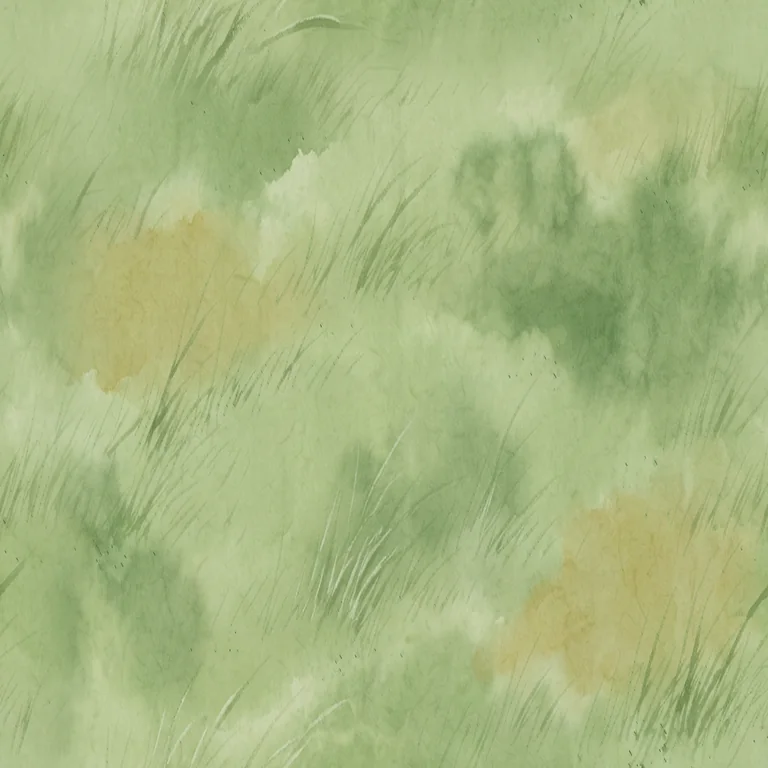
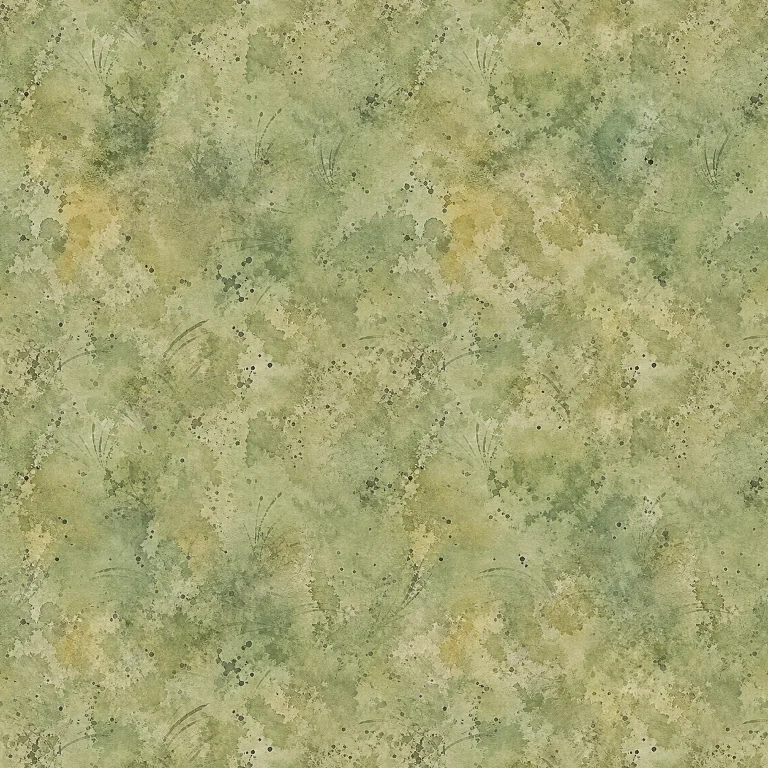
第四十二步：黄枫谷水墨地图样板

diff --git a/fanren/tools/test-landmarks.ts b/fanren/tools/test-landmarks.ts
@@ -16,7 +16,7 @@ const guard = (name: string, f: () => void) => { try { f(); } catch (e: any) { e
 const cv: any = createCanvas(400, 300); const ctx = cv.getContext('2d');
 const view = () => ({ left: g.player.x - 1500, top: g.player.y - 1000, right: g.player.x + 1500, bottom: g.player.y + 1000 });
 const clearFoes = () => { for (const e of g.combat.enemies) { e.dead = true; e.hp = 0; } g.combat.enemies = []; };
-console.log('map', ACTIVE_MAP, 'landmarks', LANDMARKS.map((l: any) => l.id).join(','), 'scenic peaks', SCENIC.peaks.length, 'falls', SCENIC.falls.length, 'groves', SCENIC.groves.length);
+console.log('map', ACTIVE_MAP, 'landmarks', LANDMARKS.map((l: any) => l.id).join(','), 'scenic peaks', SCENIC.peaks.length, 'falls', SCENIC.falls.length, 'groves', SCENIC.groves.length, 'props', SCENIC.props.length);
 ok(LANDMARKS.length >= 1, '本图有原著名地');
 g.hero.realm = 2; g.hero.stage = 2;
 
@@ -39,6 +39,16 @@ guard('decos', () => {
   for (const f of allF.slice(0, 3)) { const cx = Math.floor(f.x / CHUNK), cy = Math.floor(f.y / CHUNK); ok(terrain.getDecos(cx, cy).some((d: any) => d.kind === 'fall' && d.id === f.id), '瀑布进入装饰列表', f.id); }
   for (const gv of SCENIC.groves.slice(0, 3)) { const cx = Math.floor(gv.x / CHUNK), cy = Math.floor(gv.y / CHUNK); for (const d of terrain.getDecos(cx, cy)) if (d.kind === 'tree' && (d.sp === 'peach' || d.sp === 'apricot' || d.sp === 'plum')) blossom++; }
   ok(blossom > 10 || !SCENIC.groves.length, '花林里有桃杏', String(blossom));
+  for (const p of SCENIC.props) {
+    const cx = Math.floor(p.x / CHUNK), cy = Math.floor(p.y / CHUNK);
+    const hits = terrain.getDecos(cx, cy).filter((d: any) => d.kind === 'asset' && d.id === p.id && d.key === p.key);
+    ok(hits.length === 1, `原创名胜只生成一次：${p.name ?? p.id}`, `chunk=${cx},${cy} count=${hits.length}`);
+    let blockers = 0;
+    for (let yy = Math.floor((p.y - p.h * 0.85) / CHUNK); yy <= Math.floor((p.y + 150) / CHUNK); yy++) for (let xx = Math.floor((p.x - p.w * 0.55) / CHUNK); xx <= Math.floor((p.x + p.w * 0.55) / CHUNK); xx++) {
+      for (const d of terrain.getDecos(xx, yy)) if (d.kind === 'tree' && Math.abs(d.x - p.x) < p.w * 0.55 && d.y > p.y - p.h * 0.85 && d.y < p.y + 150) blockers++;
+    }
+    ok(blockers === 0, `观景亭贴图区域留白：${p.name ?? p.id}`, `trees=${blockers}`);
+  }
   let pg = 0; for (let y = 0; y < H; y += 2600) for (let x = 0; x < W; x += 2600) pg += terrain.grovesNear(x, y, 0).length > 0 ? 1 : 0;
   console.log('     procedural grove cells ~', pg);
 });

diff --git a/fanren/src/data/landmarks.ts b/fanren/src/data/landmarks.ts
@@ -173,9 +173,10 @@ export const LANDMARKS: Landmark[] = build();
 export interface NamedPeak extends LmPeak { name: string }
 export interface FallSpot { id: string; x: number; y: number; w: number; h: number; seed: number; tiers: number; name?: string }
 export interface GroveSpot { x: number; y: number; r: number; sp: Species; seed: number; name?: string }
+export interface ScenicPropSpot { id: string; key: string; x: number; y: number; w: number; h: number; flip?: boolean; name?: string }
 
 function buildScenic() {
-  const peaks: NamedPeak[] = [], falls: FallSpot[] = [], groves: GroveSpot[] = [];
+  const peaks: NamedPeak[] = [], falls: FallSpot[] = [], groves: GroveSpot[] = [], props: ScenicPropSpot[] = [];
   const at = (loc: string) => { const l = locHere(loc); return l ? [l.x * WORLD_SCALE, l.y * WORLD_SCALE] as const : null; };
   const pk = (loc: string, name: string, dx: number, dy: number, w: number, h: number, style: MtnStyle, extra: Partial<NamedPeak> = {}) => {
     const c = at(loc); if (!c) return;
@@ -206,6 +207,9 @@ function buildScenic() {
     fall('qixuan', 1300, -2650, 460, 420, 1);
     fall('taiyue', -1500, -700, 640, 760, 3);
     fall('huangfeng', -2300, -2600, 480, 520, 2);
+    // 黄枫谷瀑布旁的原创观景点：只补一座手绘亭台，山、树、水帘仍由原有程序绘制。
+    const hf = at('huangfeng');
+    if (hf) props.push({ id: 'sp_huangfeng_tingpu', key: 'p_map42_hf_pavilion', x: hf[0] - 1550 + 700, y: hf[1] + 950 + 220, w: 580, h: 623, name: '黄枫谷·听瀑亭' });
     // 花林
     grove('luoyun', 1700, 1250, 620, 'peach', '灵药园桃林');
     grove('qixuan', -900, 1200, 520, 'peach');
@@ -227,7 +231,7 @@ function buildScenic() {
     grove('yunzhou', 1300, 1100, 520, 'peach');
     grove('youzhou', -1200, 1000, 480, 'plum', '幽州梅林');
   }
-  return { peaks, falls, groves };
+  return { peaks, falls, groves, props };
 }
 export const SCENIC = buildScenic();
 
@@ -254,6 +258,7 @@ export function lmCleared(x: number, y: number, pad = 0): boolean {
   }
   for (const p of SCENIC.peaks) if (Math.abs(x - p.x) < p.w * 0.55 + pad && y < p.y + 250 && y > p.y - p.h * 0.5 - pad) return true;
   for (const f of SCENIC.falls) if (Math.abs(x - f.x) < f.w * 0.75 + pad && y < f.y + f.w * 0.6 && y > f.y - f.h * 0.6 - pad) return true;
+  for (const p of SCENIC.props) if (Math.abs(x - p.x) < p.w * 0.55 + pad && y < p.y + 150 + pad && y > p.y - p.h * 0.85 - pad) return true;
   return false;
 }
 export function groveAt(x: number, y: number, pad = 0): GroveSpot | null {

diff --git a/fanren/src/world/terrain.ts b/fanren/src/world/terrain.ts
@@ -22,7 +22,8 @@ export interface TreeDeco { kind: 'tree'; sp: Species; v: number; x: number; y: 
 export interface MtnDeco { kind: 'mtn'; id: string; spec: MtnSpec; x: number; y: number; w: number; h: number; flip: boolean }
 /** 第十九步：瀑布（崖壁精灵 + 逐帧水练） */
 export interface FallDeco { kind: 'fall'; id: string; x: number; y: number; w: number; h: number; seed: number; tiers: number; name?: string }
-export type Deco = ImgDeco | TreeDeco | MtnDeco | FallDeco;
+export interface AssetDeco { kind: 'asset'; id: string; key: string; x: number; y: number; w: number; h: number; flip?: boolean; name?: string }
+export type Deco = ImgDeco | TreeDeco | MtnDeco | FallDeco | AssetDeco;
 const GROVE_MIX: Species[] = ['peach', 'peach', 'peach', 'peach', 'peach', 'peach', 'peach', 'peach', 'peach', 'apricot', 'apricot', 'apricot', 'apricot', 'apricot', 'apricot', 'plum', 'plum', 'plum', 'maple', 'maple'];
 const GVC = 2600, FC = 3000;
 /** 草丛（实时绘制，见 gfx/grass.ts） */
@@ -1113,6 +1114,8 @@ export class Terrain {
         out.push({ kind: 'tree', sp, v: Math.floor(hash2(xx, yy, 307) * TREE_VARIANTS), x, y, w: base * 1.2, h: base * 1.35, s: sc, flip: rnd() < 0.5, ph: rnd() * Math.PI * 2, lod: (xx + yy) % 3 });
       }
     }
+    // ---------- 1e. 原创名胜小景（只在对应世界坐标生成一次）----------
+    for (const p of SCENIC.props) if (inChunk(p.x, p.y)) out.push({ kind: 'asset', ...p });
     // ---------- 2. 树林（成片的林子，大小不一）----------
     const GC = 640;
     for (let gy = Math.floor((oy - 700) / GC); gy <= Math.floor((oy + CHUNK + 700) / GC); gy++) for (let gx = Math.floor((ox - 700) / GC); gx <= Math.floor((ox + CHUNK + 700) / GC); gx++) {

diff --git a/fanren/src/gfx/bldTex2.ts b/fanren/src/gfx/bldTex2.ts
@@ -3,7 +3,8 @@
 // Node 测试环境没有 Image：一切函数返回 null / false，调用方退回程序绘制。
 import { BLD2, BldDim } from './bld2Dims';
 import { PROP2 } from './propDims';
-Object.assign(BLD2, PROP2);   // 第二十三步：摆件 / 遗迹 / 名地构件与建筑共用一套加载与绘制
+import { MAP_ART_DIMS } from './mapArtDims';
+Object.assign(BLD2, PROP2, MAP_ART_DIMS);   // 摆件、遗迹与地图名胜共用按需加载器
 
 type G = CanvasRenderingContext2D;
 interface Ent { im: HTMLImageElement | null; mips: (HTMLCanvasElement | HTMLImageElement)[]; w: number; h: number; last: number; ok: boolean; bad?: boolean }
@@ -17,7 +18,7 @@ let clock = 0;
 export function loadBld2() {
   if (started || typeof Image === 'undefined' || typeof document === 'undefined') return;
   started = true;
-  Promise.all([import('./bld2Data'), import('./propData')]).then(([m, p]) => { SRC = { ...m.BLD2_SRC, ...p.PROP_SRC }; GSRC = m.BLDG_SRC; }).catch((e) => console.warn('建筑画材不可用', e));
+  Promise.all([import('./bld2Data'), import('./propData'), import('./mapArtData')]).then(([m, p, a]) => { SRC = { ...m.BLD2_SRC, ...p.PROP_SRC, ...a.MAP_ART_SRC }; GSRC = m.BLDG_SRC; }).catch((e) => console.warn('建筑画材不可用', e));
 }
 export const bld2Ready = () => !!SRC;
 export function bldDim(key: string): BldDim | undefined { return BLD2[key.split('|')[0]]; }

diff --git a/fanren/src/gl/groundTex.ts b/fanren/src/gl/groundTex.ts
@@ -2,7 +2,8 @@
 export const GROUND_TEX_SIZE = 768;
 /** 各层平均色（预先算好，着色器用来把图块“去色调”后乘回程序配色，保留季节 / 干湿的大块变化） */
 export const GROUND_AVG: number[][] = [
-  [0.629, 0.723, 0.512], [0.655, 0.720, 0.506], [0.769, 0.680, 0.371], [0.741, 0.685, 0.529],
+  // v0.42：雾山水墨样板草地 A/B 的实测平均色。
+  [0.771, 0.763, 0.556], [0.643, 0.648, 0.453], [0.769, 0.680, 0.371], [0.741, 0.685, 0.529],
   // 第三十步：4、6~11 换成新的水墨图块；12 魔道赤土、13 阴地灰紫、14 海滩碎贝
   [0.664, 0.642, 0.557], [0.695, 0.674, 0.510], [0.962, 0.891, 0.736], [0.701, 0.673, 0.619],
   [0.934, 0.933, 0.930], [0.786, 0.657, 0.405], [0.598, 0.556, 0.501], [0.675, 0.610, 0.514],

diff --git a/fanren/src/world/render.ts b/fanren/src/world/render.ts
@@ -444,6 +444,10 @@ export class Renderer {
           }
         } else if (d.kind === 'fall') {
           if (!(d.x + d.w < left || d.x - d.w > right || d.y - d.h - 100 > bottom || d.y + d.w * 0.4 < top)) { nM++; list.push({ y: d.y, k: 'D·瀑布', draw: () => this.drawFall(d, t) }); }
+        } else if (d.kind === 'asset') {
+          if (!vis || z < 0.3) continue;
+          nD++;
+          list.push({ y: d.y, k: 'D·名胜', draw: () => { drawBld(ctx, d.key, d.x, d.y, t, 1, !!d.flip); } });
         } else {
           if (!vis || z < 0.3) continue;
           nD++;

diff --git a/fanren/src/ui/ModalLayer.tsx b/fanren/src/ui/ModalLayer.tsx
@@ -511,7 +511,7 @@ function ChroniclePanel({ game }: { game: Game }) {
 }
 
 // ---------------------------------------------------------------- 帮助
-export const VERSION = 'v0.41 · 境界压制';
+export const VERSION = 'v0.42 · 水墨名胜';
 function HelpPanel({ game }: { game: Game }) {
   const [tab, setTab] = useState(0);
   const T = ['操作', '修炼', '战斗', '人界', '神识', '机缘'];

diff --git a/fanren/src/world/landmarks.ts b/fanren/src/world/landmarks.ts
@@ -474,6 +474,7 @@ export class LandmarkSys {
       for (const pk of SCENIC.peaks) if (pk.name) lab(pk.x, pk.y + 50, pk.name);
       for (const f of SCENIC.falls) if (f.name) lab(f.x, f.y + f.w * 0.2, f.name);
       for (const gv of SCENIC.groves) if (gv.name) lab(gv.x, gv.y, gv.name);
+      for (const p of SCENIC.props) if (p.name) lab(p.x, p.y - p.h - 32, p.name);
     }
   }
 

diff --git a/fanren/src/gfx/mapArtDims.ts b/fanren/src/gfx/mapArtDims.ts
@@ -1,0 +1,7 @@
+// v0.42：地图名胜小景世界尺寸（独立于 Vite 的 ?inline 画材模块，供 Node 测试安全读取）。
+import type { BldDim } from './bld2Dims';
+
+// 世界尺寸：韩立约 108 像素高；取图像裁切比例 934:1003。
+export const MAP_ART_DIMS: Record<string, BldDim> = {
+  p_map42_hf_pavilion: { w: 580, h: 623 },
+};

diff --git a/fanren/src/gfx/mapArtData.ts b/fanren/src/gfx/mapArtData.ts
@@ -1,0 +1,6 @@
+// v0.42：地图名胜小景（与城池、宗门建筑分离；通过 bldTex2 的按需加载器绘制）。
+import pavilion from '../assets/prop/hf_view_pavilion.webp?inline';
+
+export const MAP_ART_SRC: Record<string, string> = {
+  p_map42_hf_pavilion: pavilion,
+};

diff --git a/fanren/README.md b/fanren/README.md
@@ -1,7 +1,14 @@
-# 凡人修仙传 · 2D 同人（v0.41 · 境界压制）
+# 凡人修仙传 · 2D 同人（v0.42 · 水墨名胜）
 
 山川、树木、地面、飞禽走兽、天气昼夜由代码实时绘制（地面为 GPU 程序化着色器）；
 地表与妖兽使用水墨淡彩画材（妖兽的动作仍由代码驱动）；建筑使用统一的国风淡彩贴图；对话/面板头像使用 AI 立绘。
+
+## 第四十二步（v0.42）：水墨地图样板——黄枫谷听瀑亭
+
+- 地表草地 A/B 更换为水墨淡彩纹理，并同步 GPU 地表材质的平均色；山体、树木仍由程序绘制，未改宗门/城池旧建筑，也不使用整张 AI 图铺地图。
+- 在黄枫谷瀑布旁新增原创观景点「听瀑亭」：建筑采用透明贴图并按世界 Y 坐标排序；瀑布、山景、树木仍沿用原有动态程序绘制。
+- 视觉方向取水墨笔触、浓淡与留白层次作启发，不照搬《雾山五行》的角色、场景或设定。
+- 原始素材保存在 `art-src/raw/map42/`；亭子背景处理脚本为 `tools/map42-art.mjs`。
 
 ## 第四十一步（v0.41）：境界压制——神识之内，低一个大境界举步维艰，低两个以上被压在原地
 
